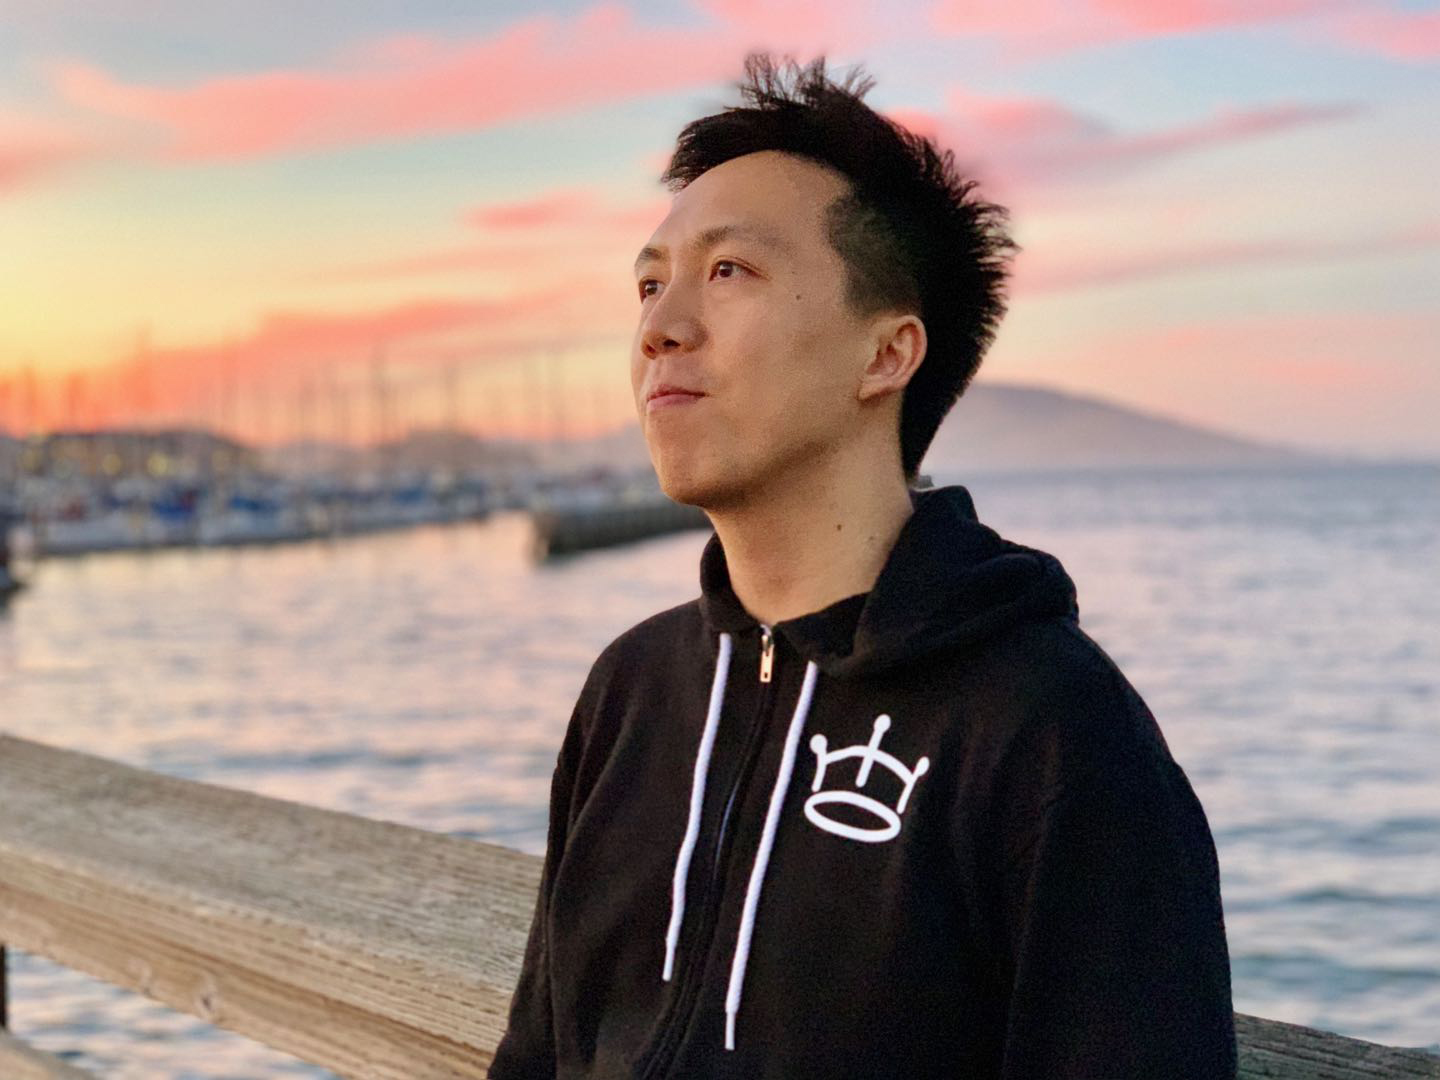
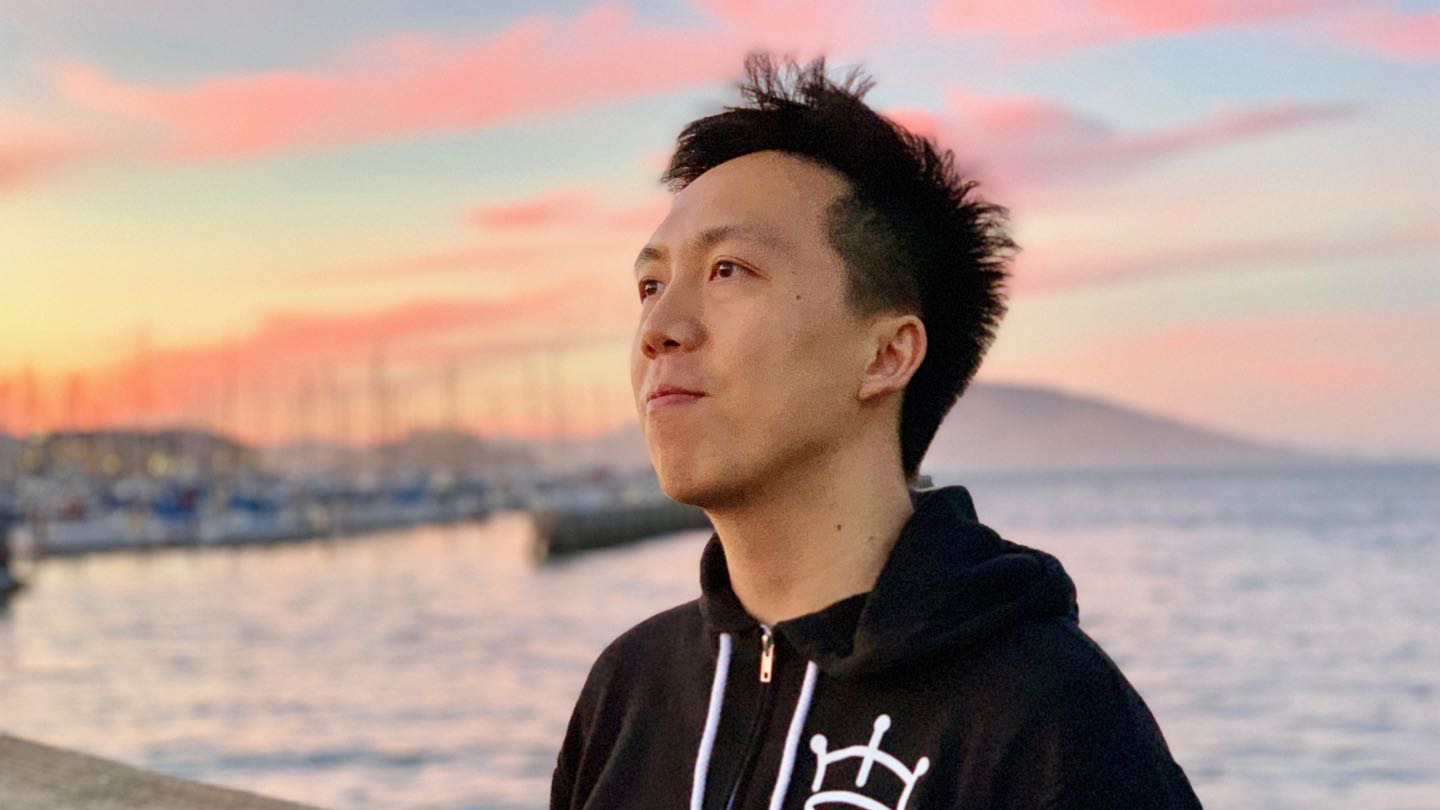
Major Updates
Create new section for PwC Projects; Update the content in index page

diff --git a/index.html b/index.html
@@ -56,7 +56,7 @@
         <div class="intro" id="block2" style="width: 100%;"
           data-vide-bg="mp4: video/ocean, webm: video/ocean, ogv: http://vodkabears.github.io/vide/video/ocean, poster: video/ocean"
           data-vide-options="position: 0% 50%">
-            <h1><strong>Ocean Zou,</strong> a digital designer from Vancouver.<br>
+            <h1><strong>Ocean Zou,</strong> an experience designer from Vancouver.<br>
                 Believing in a good design is a good business.
             </h1>
             <h4 id="intro-subtitle">
@@ -68,6 +68,14 @@
 
         <div class="projects" id="work">
             <div class="project1">
+                <a href="PwC.html">
+                    <p><strong>🔐  Seleted projects from PwC</strong><br>
+                    <br>
+                    Most projects are confidential. Key disclosable clients include Macy's, Li & Fung,and HKTDC. Please reach out to know more about my project experience in PwC! </p>
+                    <h4>See case study</h4><br>
+                </a>
+            </div>
+            <div class="project1">
                 <a href="SpotsChecker.html">
                     <p><strong>SpotsChecker</strong><br>
                     <br>
@@ -75,14 +83,14 @@
                     <h4>See case study</h4><br>
                 </a>
             </div>
-<!--             <div class="project2">
-                <a href="VHS.html">
+             <div class="project2">
+                <a href="https://medium.com/@ooceanzou/design-for-vancouver-hack-space-76091df213f9" target="_blanket">
                     <p><strong>Vancouver Hack Space</strong><br>
                     <br>
-                    Working with a UX Research group to study and deliever inventory management solution for vancouver hack space. </p>
+                    Working with a UX Research group to study and deliever insights-driven inventory management solution for vancouver hack space. </p>
                     <h4>See case study</h4><br>
                 </a>
-            </div> -->
+            </div> 
             <div class="project3">
                 <a href="Skiaware.html">
                     <p><strong>Skiaware</strong><br>
@@ -102,19 +110,18 @@
         </div>
 
         <div class="about">
-            <img src="img/about.png" alt="my own photos">
+            <img src="img/about.jpeg" alt="my own photos">
             <h1 id="aboutme"><strong>Hi, my name is Ocean Zou.</strong><br></h1>
             <p>
             I am an aspiring product UX professional looking to learn, grow and promote the belief that <a href="bio-video">a good design is a good business</a>. I believe experience design is more than a design capability; it is a strategic offering that bring together data-driven insights、cultural behavior、brand and user objectives、technology and creative vision. 
             <br>
             <br>
-            Currently, I am looking for opportunities where I can create pleasing interaction experiences and designing solutions that create impact. In exchange, I can provide bad ass prototyping skills. If you want to talk about future opportunities or even just say hi, <a href="mailto:uxocean@outlook.com">drop me an email</a> or reach me via <a href="https://ca.linkedin.com/in/ocean-zou-4374aa64" target="_blank">linkedin</a>. Thanks for visiting my website!
+            Currently, I am looking for opportunities where I can create pleasing interaction experiences and designing solutions that create impact. In exchange, I can provide bad ass prototyping skills. If you want to talk about future opportunities or even just say hi👋, <a href="mailto:uxocean@outlook.com">drop me an email 📧</a> or reach me via <a href="https://ca.linkedin.com/in/ocean-zou-4374aa64" target="_blank">linkedin</a>👀. Thanks for visiting my website!
 
             <h4> AREAS OF INTERESTS</h4>
-            <br>
             <div class="passion">    
                <img src="img/passion1.png" alt="passion3">
-               <figcaption>Digital Product Design</figcaption>
+               <figcaption>Product Design</figcaption>
             </div> 
 
             <div class="passion">
@@ -126,29 +133,20 @@
                 <img src="img/passion3.png" alt="passion1">
                 <figcaption>Digital Transformation</figcaption>
             </div>
-            <br>  
-            <br>
-            <br>  
-            <br>
-            <br>  
-            <br>
-            <br>
-            <br>  
-            <br>
+            <br><br><br> 
 
-<!--             <h4>DESIGN BLOGS</h4><br>
+           <h4>RANDOM THOUGHTS ON DESIGN</h4><br>
             <ul>
             <li><a href="https://medium.com/@ooceanzou/designers-problem-d7f70d4f4d6c#.a4c6b8dsg" target="_blanket">01. Mobile Experience on IOS and Android >> </a></li>
-            <li><a href="https://medium.com/@ooceanzou/design-for-vancouver-hack-space-76091df213f9" target="_blanket">02. Service Design for Vancouver Hack Space >> </a></li> -->
-
-
-<!--             <h4> WORK EXPERIENCES</h4><br>
+            <br><br><br> 
+   
+<!--        <h4> WORK EXPERIENCES</h4><br>
             <ul>
                 <li>2016.03 - present &nbsp;&nbsp;&nbsp;&nbsp;&nbsp;&nbsp;&nbsp;&nbsp;&nbsp;&nbsp;&nbsp;Hong Kong&nbsp;&nbsp;&nbsp;&nbsp;&nbsp;&nbsp;&nbsp;&nbsp;&nbsp;&nbsp;<a href="http://digital.pwc.com/" target="_blank">PwC Experience Center</a>&nbsp;&nbsp;&nbsp;&nbsp;&nbsp;&nbsp;&nbsp;&nbsp;&nbsp;&nbsp;&nbsp;&nbsp;&nbsp;&nbsp;&nbsp;&nbsp;&nbsp;&nbsp;&nbsp;&nbsp;&nbsp;&nbsp;&nbsp;Senior UX Designer</li>
 
                 <li>2015.04 - 2015.13 &nbsp;&nbsp;&nbsp;&nbsp;&nbsp;&nbsp;&nbsp;&nbsp;&nbsp;&nbsp;&nbsp;&nbsp;Canada&nbsp;&nbsp;&nbsp;&nbsp;&nbsp;&nbsp;&nbsp;&nbsp;&nbsp;&nbsp;&nbsp;&nbsp;&nbsp;&nbsp;&nbsp;&nbsp;&nbsp;<a href="http://digital.pwc.com/" target="_blank">SAP Emerging Technology Lab</a>&nbsp;&nbsp;&nbsp;&nbsp;&nbsp;&nbsp;&nbsp;&nbsp;&nbsp;Interaction Designer</li>
             </ul>
-            <br>
+            <br><br><br>
 
             <h4> HACKONTHON EXPERIENCE</h4><br>
             <ul>
@@ -159,9 +157,8 @@
                 <li>2018 May &nbsp;&nbsp;&nbsp;&nbsp;&nbsp;&nbsp;&nbsp;&nbsp;&nbsp;&nbsp;&nbsp;&nbsp;&nbsp;&nbsp;&nbsp;&nbsp;&nbsp;&nbsp;&nbsp;&nbsp;&nbsp;&nbsp;&nbsp;Grand Award&nbsp;&nbsp;&nbsp;&nbsp;&nbsp;&nbsp;&nbsp;&nbsp;&nbsp;&nbsp;<a href="http://digital.pwc.com/" target="_blank">2018 Angelhack Global Hackathon Shenzhen</li>
 
                 <li>2018 November &nbsp;&nbsp;&nbsp;&nbsp;&nbsp;&nbsp;&nbsp;&nbsp;&nbsp;&nbsp;&nbsp;1st Prize&nbsp;&nbsp;&nbsp;&nbsp;&nbsp;&nbsp;&nbsp;&nbsp;&nbsp;&nbsp;&nbsp;&nbsp;&nbsp;&nbsp;&nbsp;&nbsp;&nbsp;&nbsp;&nbsp;<a href="http://digital.pwc.com/" target="_blank">EPAM Code4Good Hackathon</li>
-            </ul>
+            </ul> -->
 
- -->
 
         </div>
 	</article>

diff --git a/PwC.html b/PwC.html
@@ -1,0 +1,19 @@
+<HEAD>
+<SCRIPT language="JavaScript">
+<!--hide
+
+var password;
+var pass1="pwcproject2018";
+
+password=prompt('The project contents are confidential. Please enter the password to view this page!',' ');
+
+if (password==pass1)
+  alert('Password Correct! Click OK to enter!');
+else
+   {
+    window.location="index.html";
+    }
+
+//-->
+</SCRIPT>
+</HEAD>
